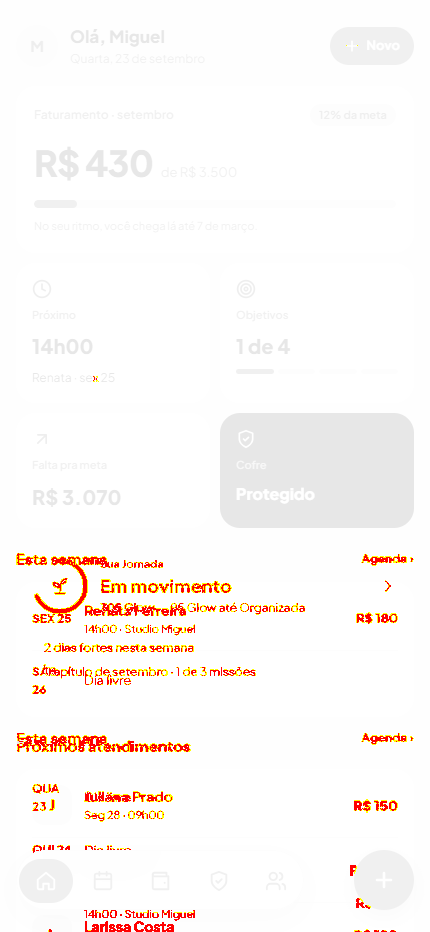
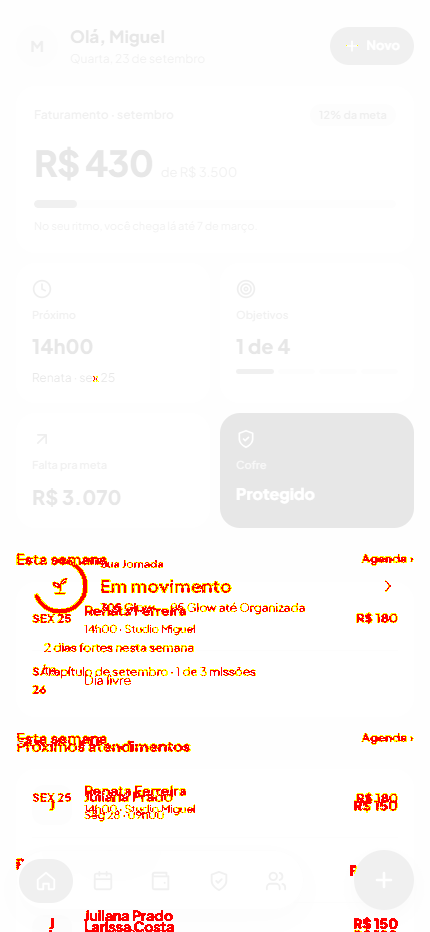
feat(inicio): "Esta semana" lista só os dias com atendimento
Decisão do operador no PR #206: a "Esta semana" do Início deixa de
listar todos os dias de hoje até domingo (com "Dia livre" nos vazios) e
passa a mostrar só os dias que têm atendimento. Nenhum atendimento some:
diasComAtendimentoDaSemana é diasRestantesDaSemana sem os dias vazios.
Semana sem atendimento nenhum mostra uma linha "Semana livre".

Teste de unidade da função e de fiação da seção, validados por mutação
(4 mutações, todas pegas).

Medição (sem o card da Jornada, que o mockup não tem): Início 390 cai de
1,10% para 0,81%. O mockup mostra "SÁB 26 · Dia livre", que a regra nova
não mostra; essa linha é o que sobra.

diff --git a/components/home/SemanaSection.tsx b/components/home/SemanaSection.tsx
@@ -5,7 +5,7 @@ import { formatBRL } from "@/lib/finance";
 import type { Job } from "@/lib/types";
 import { InicioCard } from "./InicioCard";
 import {
-  diasRestantesDaSemana,
+  diasComAtendimentoDaSemana,
   formatHora,
   rotuloDiaCurto,
 } from "./inicioAgenda";
@@ -18,12 +18,13 @@ interface Props {
 
 /**
  * Seção "Esta semana" da Início (Jornada J02, mockup
- * `5-telas-8-temas-claro-escuro.html`): de hoje até domingo, um dia por
- * linha; dia sem atendimento aparece como "Dia livre". O atalho
+ * `5-telas-8-temas-claro-escuro.html`): de hoje até domingo, só os dias
+ * com atendimento, um atendimento por linha. Semana sem nenhum atendimento
+ * mostra uma linha "Semana livre". O atalho
  * "Agenda ›" leva à aba Agenda.
  */
 export function SemanaSection({ jobs, onGoToAgenda }: Props) {
-  const dias = diasRestantesDaSemana(jobs);
+  const dias = diasComAtendimentoDaSemana(jobs);
   // Valores do mockup normativo (tela Início, "Esta semana").
   const linhaStyle = {
     display: "flex",
@@ -63,6 +64,13 @@ export function SemanaSection({ jobs, onGoToAgenda }: Props) {
       </div>
 
       <InicioCard style={{ padding: "6px 16px" }}>
+        {dias.length === 0 && (
+          <div
+            style={{ ...linhaStyle, fontSize: "13px", color: "var(--t-mut)" }}
+          >
+            Semana livre
+          </div>
+        )}
         {dias.map((dia, i) => {
           const borda = i < dias.length - 1 ? BORDA : undefined;
           const rotulo = (
@@ -78,23 +86,6 @@ export function SemanaSection({ jobs, onGoToAgenda }: Props) {
               {rotuloDiaCurto(dia.data)}
             </span>
           );
-
-          if (dia.jobs.length === 0) {
-            return (
-              <div key={dia.data} style={{ ...linhaStyle, ...borda }}>
-                {rotulo}
-                <div
-                  style={{
-                    flexGrow: 1,
-                    fontSize: "13px",
-                    color: "var(--t-mut)",
-                  }}
-                >
-                  Dia livre
-                </div>
-              </div>
-            );
-          }
 
           return (
             <Fragment key={dia.data}>

diff --git a/tests/wiring/inicio-visual-jornada.test.ts b/tests/wiring/inicio-visual-jornada.test.ts
@@ -4,6 +4,7 @@ import { join } from "node:path";
 import type { Job } from "@/lib/types";
 import {
   atendimentosDepoisDaSemana,
+  diasComAtendimentoDaSemana,
   diasRestantesDaSemana,
   fimDaSemana,
   formatHora,
@@ -103,7 +104,11 @@ describe("J02 — os dois títulos de seção do mockup", () => {
     const src = read("components/home/SemanaSection.tsx");
     expect(src).toMatch(/<h2[^>]*>\s*Esta semana\s*<\/h2>/);
     expect(src).toMatch(/onClick=\{onGoToAgenda\}[\s\S]{0,300}Agenda ›/);
-    expect(src).toContain("Dia livre");
+    // Pixel (decisão do operador): só os dias com atendimento; semana sem
+    // nenhum atendimento mostra "Semana livre".
+    expect(src).toContain("const dias = diasComAtendimentoDaSemana(jobs);");
+    expect(src).toMatch(/dias\.length === 0 && \([\s\S]{0,200}Semana livre/);
+    expect(src).not.toContain("Dia livre");
   });
 
   it('"Próximos atendimentos" é o <h2> de ProximosAtendimentos', () => {
@@ -277,6 +282,20 @@ describe("J02 — inicioAgenda: arranjo dos atendimentos (sem cálculo novo)", (
     const sexta = dias.find((d) => d.data === "2026-09-25")!;
     expect(sexta.jobs.map((j) => j.id)).toEqual(["a", "b"]);
     expect(dias.find((d) => d.data === "2026-09-24")!.jobs).toEqual([]);
+  });
+
+  it("'Esta semana' lista só os dias com atendimento, sem perder nenhum", () => {
+    const jobs = [
+      job({ id: "sex2", data: "2026-09-25", hora: "16:00" }),
+      job({ id: "sex1", data: "2026-09-25", hora: "09:30" }),
+      job({ id: "dom", data: "2026-09-27" }),
+      job({ id: "cancelado", data: "2026-09-24", status: "cancelado" }),
+      job({ id: "depois", data: "2026-09-28" }),
+    ];
+    const dias = diasComAtendimentoDaSemana(jobs, REF);
+    expect(dias.map((d) => d.data)).toEqual(["2026-09-25", "2026-09-27"]);
+    expect(dias[0].jobs.map((j) => j.id)).toEqual(["sex1", "sex2"]);
+    expect(diasComAtendimentoDaSemana([], REF)).toEqual([]);
   });
 
   it("'Próximos atendimentos' começa depois desta semana, em ordem, com limite", () => {

diff --git a/components/home/inicioAgenda.ts b/components/home/inicioAgenda.ts
@@ -81,6 +81,19 @@ export function diasRestantesDaSemana(
   return dias;
 }
 
+/**
+ * Só os dias de hoje até domingo que têm atendimento (a "Esta semana" do
+ * mockup normativo lista dias com agenda, não a semana inteira). Nenhum
+ * atendimento some: são os mesmos dias de `diasRestantesDaSemana`, sem os
+ * vazios.
+ */
+export function diasComAtendimentoDaSemana(
+  jobs: Job[],
+  ref: Date = new Date()
+): DiaDaSemana[] {
+  return diasRestantesDaSemana(jobs, ref).filter((d) => d.jobs.length > 0);
+}
+
 /** Atendimentos ativos depois desta semana, em ordem, até `limite` (6,
  * como a lista "Próximos atendimentos" do mockup normativo). */
 export function atendimentosDepoisDaSemana(
